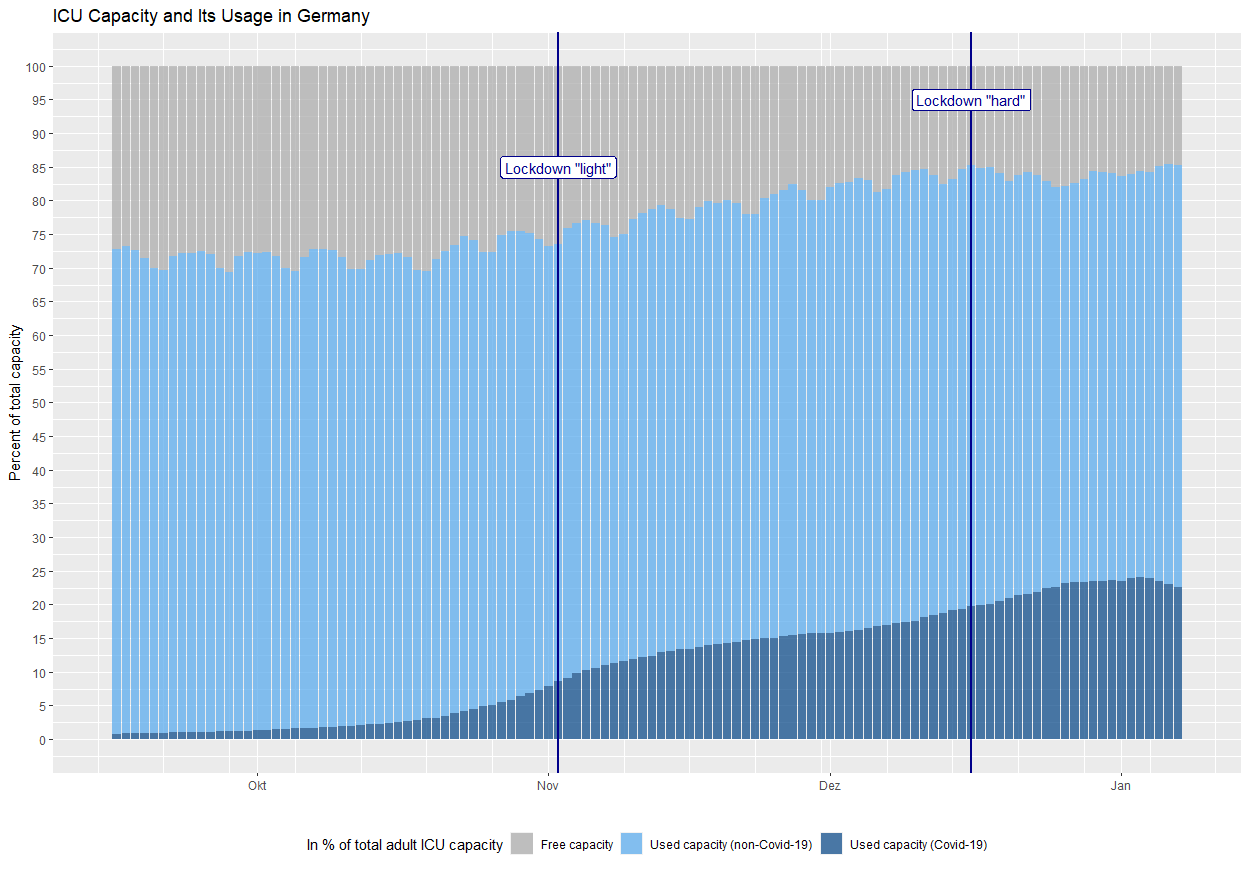
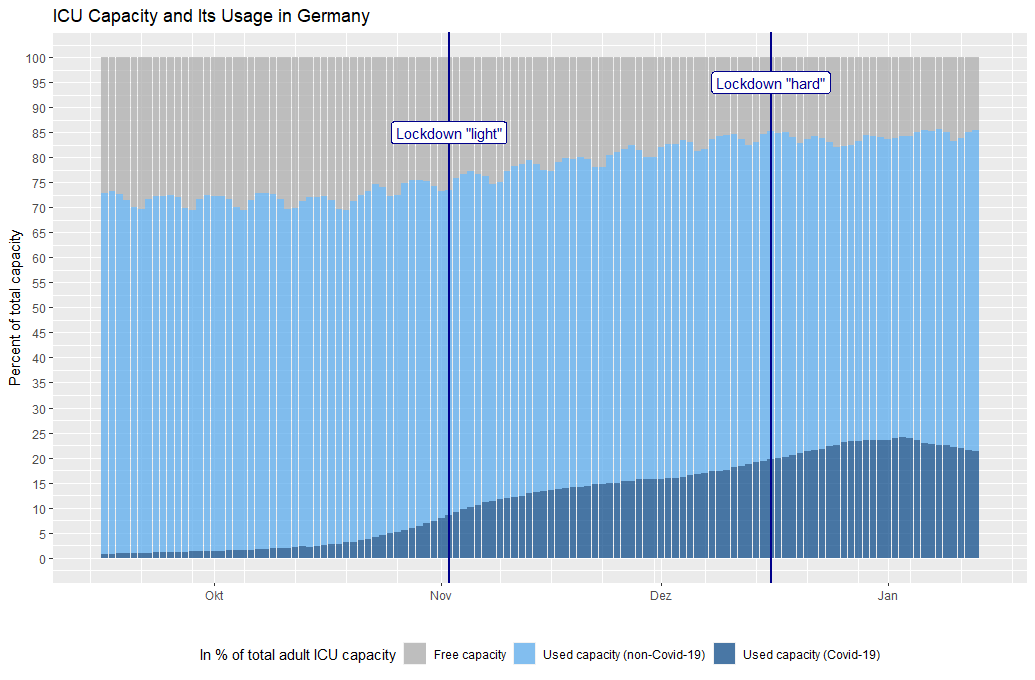
Data update Jan 14th

diff --git a/README.md b/README.md
@@ -4,7 +4,7 @@ ICU situation in Germany
 ## Capacity usage
 
 The graph shows ICU capacity usage for adult ICU beds in percent of
-total capacity. Last reported data is from **January 8th**.
+total capacity. Last reported data is from **January 14th**.
 
 ![ICU usage graph](icu_usage.png)
 
@@ -24,10 +24,10 @@ of schools).
 
 Observations:
 
-  - 85.7 % of capacity is currently in use with a 14 pp spread across
+  - 85.6 % of capacity is currently in use with a 13 pp spread across
     federal states
-  - 22.6 % of *total* capacity is currently used for Covid-19 patients
-  - 26.4 % of *used* capacity is occupied by Covid-19 patients
+  - 21.1 % of *total* capacity is currently used for Covid-19 patients
+  - 24.6 % of *used* capacity is occupied by Covid-19 patients
 
 ## Data sources & code
 
